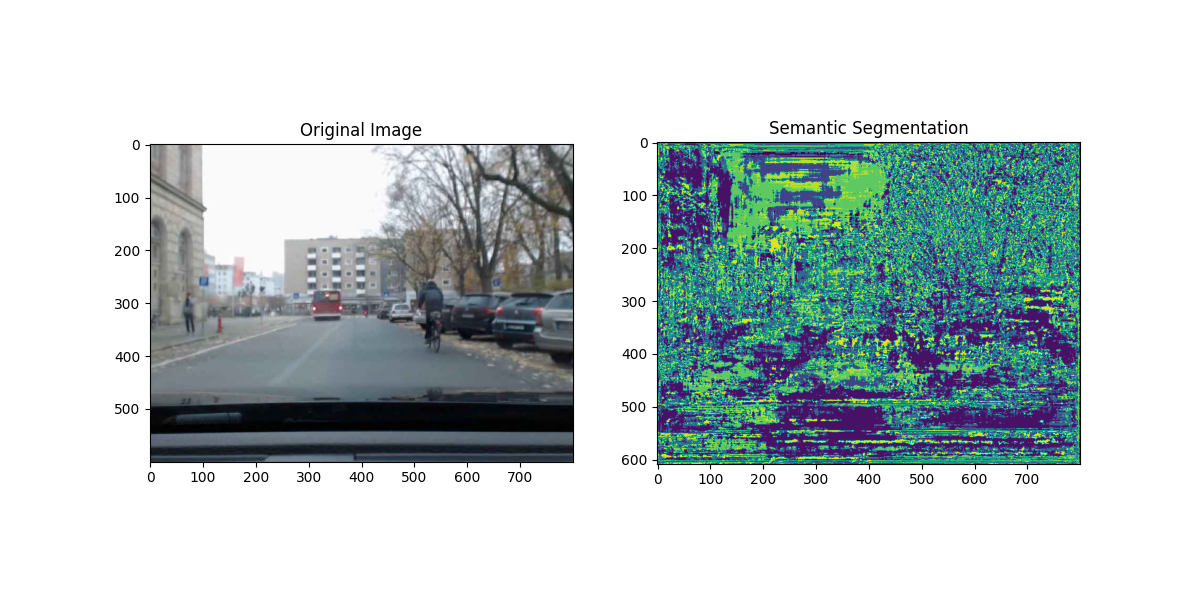
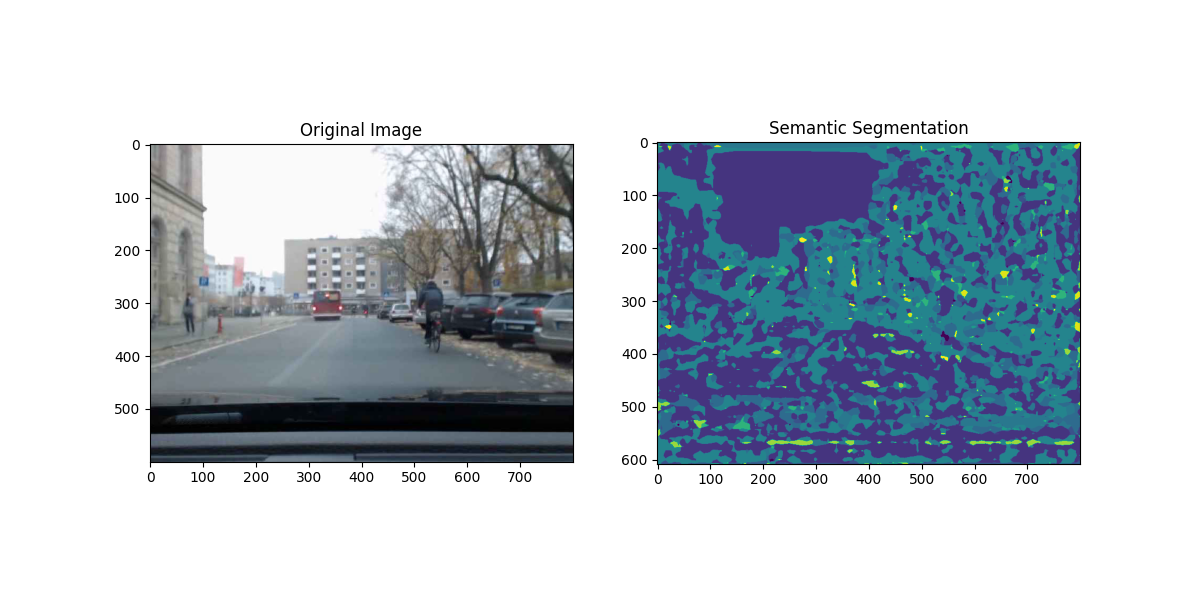
Stand Dienstag:
Todo: draw_segmentation_mask

Changed region(s): [[0.5242, 0.24, 0.925, 0.78]]

diff --git a/Tests/test2.py b/Tests/test2.py
@@ -1,41 +1,55 @@
 import torch
-from torchvision import models, transforms
+from torchvision import models, transforms, utils, io
 from PIL import Image
 import matplotlib.pyplot as plt
+import numpy as np
+from torchvision.utils import draw_segmentation_masks
 
+
+device = torch.device("cuda" if torch.cuda.is_available() else "cpu")
+print("Using device:", device)
 
 weights = 'DEFAULT'
 
 # Load the pretrained DeepLabV3 model with a ResNet backbone
-model = models.segmentation.fcn_resnet50(weights=weights, num_classes= 21)
+model = models.segmentation.deeplabv3_resnet101(weights=weights, num_classes= 21)
 model.eval()  # Set the model to evaluation mode (no gradient computation during inference)
 
-# Define the transformation for the input image
+#Define the transformation for the input image
 transform = transforms.Compose([
     transforms.ToTensor(),  # Convert PIL Image to PyTorch Tensor
+    #transforms.Resize(520, 520),
     transforms.Normalize(mean=[0.485, 0.456, 0.406], std=[0.229, 0.224, 0.225]),  # Normalize image
 ])
 
-# Load and preprocess the input image
-image_path = "Studienarbeit-CODE_Semantische_Segmentation/testdata/inst_picset/frame_1038.png"
+
+#Load and preprocess the input image
+image_path = "Studienarbeit-CODE_Semantische_Segmentation/testdata/inst_picset/frame_0005.png"
 input_image = Image.open(image_path).convert("RGB")  # Open the image in RGB mode
 input_tensor = transform(input_image)  # Apply the defined transformations
 input_batch = input_tensor.unsqueeze(0)  # Add a batch dimension (single image)
 
 # Perform inference
 with torch.no_grad():
-    output = model(input_batch)['out'][0]  # Forward pass through the model
-output_predictions = output.argmax(0)  # Get the index of the most probable class for each pixel
+    output = model(input_batch)['out']  # Forward pass through the model
+print('Shape ', output.shape)
+#output_predictions = output.argmax(0)  # Get the index of the most probable class for each pixel
 
-# Visualize the original image and segmentation result
-plt.figure(figsize=(12, 6))
-# Plot the original image
-plt.subplot(1, 2, 1)
-plt.imshow(input_image)
-plt.title('Original Image')
+om = torch.argmax(output.squeeze(), dim=0).detach().cpu().numpy()
+#print ('OM Shape ', om.shape, ' OM Type ', type(om))
+#print ('Uniques ' , np.unique(om), ' Max ', max(np.unique(om)))
+#print('Unique Number ', len(np.unique(om)))
 
-# Plot the segmentation result
-plt.subplot(1, 2, 2)
-plt.imshow(output_predictions, cmap='viridis')
-plt.title('Semantic Segmentation')
-plt.savefig(f"Studienarbeit-CODE_Semantische_Segmentation/Ergebnisse/testdata/FCN50_{weights}.png")
+
+image = input_image.ToTensor
+
+
+
+
+
+
+plt.imshow(om)
+
+plt.savefig('Studienarbeit-CODE_Semantische_Segmentation/Ergebnisse/ergdata/latest.png')
+
+

diff --git a/Tests/test.py b/Tests/test.py
@@ -7,11 +7,10 @@ import matplotlib.pyplot as plt
 
 
 
-# create segmentation model with pretrained encoder
 
-model = ts.Unet(
-    encoder_name="mobilenet_v2",        # choose encoder, e.g. mobilenet_v2 or efficientnet-b7
-    encoder_weights="imagenet",     # use `imagenet` pre-trained weights for encoder initialization
+model = ts.DeepLabV3Plus(
+    encoder_name="resnet101",        # choose encoder, e.g. mobilenet_v2 or efficientnet-b7
+    encoder_weights= "imagenet",     # use `imagenet` pre-trained weights for encoder initialization
     in_channels=3,                  # model input channels (1 for gray-scale images, 3 for RGB, etc.)
     classes=21,                      # model output channels (number of classes in your dataset)
 )
@@ -24,7 +23,7 @@ transform = transforms.Compose([
     transforms.Pad(padding=(0,4)),    
 ])
 
-image_path = "Studienarbeit-CODE_Semantische_Segmentation/testdata/inst_picset/frame_1038.png"
+image_path = "Studienarbeit-CODE_Semantische_Segmentation/testdata/inst_picset/frame_1038.png" #1038
 input_image = Image.open(image_path).convert("RGB")  
 input_tensor = transform(input_image)  
 input_batch = input_tensor.unsqueeze(0)  
@@ -33,8 +32,9 @@ input_batch = input_tensor.unsqueeze(0)
 
 
 with torch.no_grad():
-    output = model(input_batch)  
-output_predictions = output.argmax(1)[0] 
+    output = model.forward(input_batch)
+print(output.shape)
+output_predictions = output.argmax(1)
 
 plt.figure(figsize=(12, 6))
 plt.subplot(1, 2, 1)
@@ -44,6 +44,6 @@ plt.title('Original Image')
 
 # Plot the segmentation result
 plt.subplot(1, 2, 2)
-plt.imshow(output_predictions, cmap='viridis')
+plt.imshow(output_predictions[0], cmap='viridis')
 plt.title('Semantic Segmentation')
-plt.savefig(f"Studienarbeit-CODE_Semantische_Segmentation/Ergebnisse/ergdata/UNet_resnet34.png")
+plt.savefig(f"Studienarbeit-CODE_Semantische_Segmentation/Ergebnisse/ergdata/latest.png")
